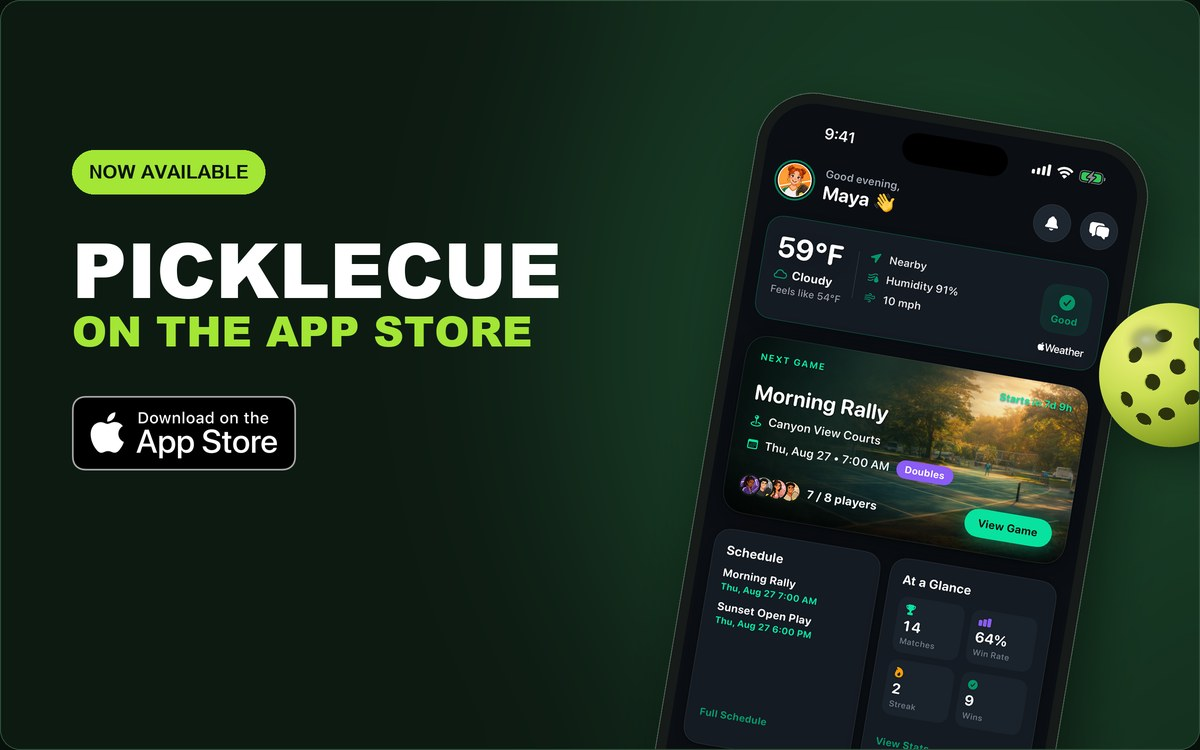
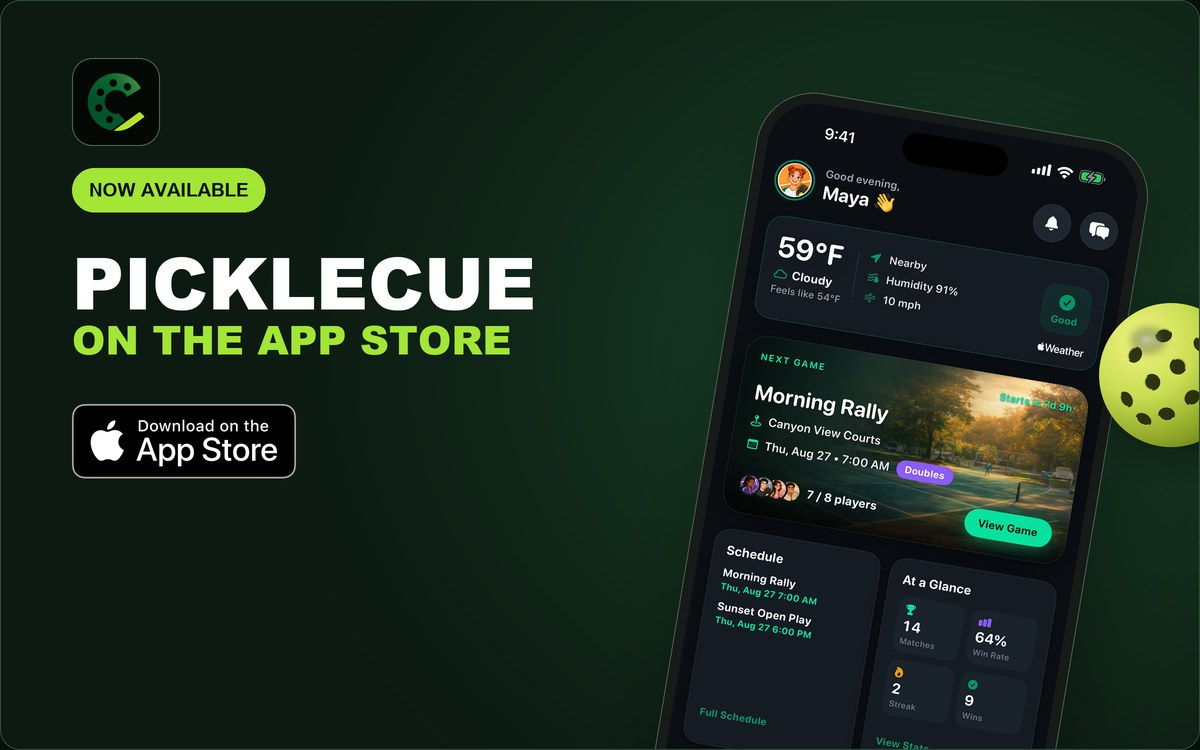
fix(email): iOS Mail was inverting the whole email, plus hero fixes
THREE THINGS THE DEVICE TEST CAUGHT THAT NO PREVIEW DID

1. iOS Mail inverted the email. On a real iPhone the dark design rendered as a
   pale sage background with dark-green buttons and a visible dark box around
   the wordmark. Zoho Mail on desktop rendered it correctly the entire time,
   which is exactly why this needed a device.

   Cause: the <meta name="color-scheme"> tags are not enough on their own.
   Apple Mail reads the CSS property. Added:

       :root{color-scheme:dark;supported-color-schemes:dark;}
       html,body{color-scheme:dark;supported-color-schemes:dark;}

   The wordmark's dark box was a symptom, not a separate bug: the PNG is
   flattened onto #0D1A12, so it only disappears when the surrounding
   background is the colour it expects. Fix the inversion, the box goes.

   Also added [data-ogsb] overrides — Gmail's mobile apps re-colour with their
   own wrapper classes instead of honouring color-scheme.

2. A hard-edged band down the left of the phone. The ambient glow was two
   blurred ellipses; a blur wide enough to look ambient still has a boundary,
   and that boundary landed right where the eye goes. Replaced with a
   per-pixel radial falloff, and the contact shadow is now inset further and
   blurred 40px instead of 26px.

3. Added the C mark as an app-icon tile in the hero, per owner request.

   NOT used: Desktop/PickleCue_AppIcon_ALL_iOS.appiconset/AppIcon-1024.png.
[…]

Changed region(s): [[0.0617, 0.092, 0.4625, 0.4907], [0.0617, 0.5213, 0.2467, 0.644]]

diff --git a/marketing/email/app-store-launch/picklecue-app-store-launch.html b/marketing/email/app-store-launch/picklecue-app-store-launch.html
@@ -12,6 +12,19 @@
 <noscript><xml><o:OfficeDocumentSettings><o:PixelsPerInch>96</o:PixelsPerInch></o:OfficeDocumentSettings></xml></noscript>
 <![endif]-->
 <style type="text/css">
+  /* TELL THE CLIENT THIS EMAIL IS ALREADY DARK.
+     The <meta> tags above are not enough on their own: Apple Mail reads the CSS
+     `color-scheme` property, and without it iOS Mail applied its own dark-mode
+     colour transform to an email that was already dark — inverting it to a pale
+     sage background, turning the lime buttons dark green, and putting a visible
+     dark box around the wordmark (whose PNG is flattened on #0D1A12, so it only
+     disappears when the surrounding background is the colour it expects).
+     Confirmed on a real iPhone from the 2026-08-26 test send; Zoho Mail on
+     desktop rendered correctly the whole time, which is why this needed a
+     device to catch. */
+  :root{color-scheme:dark;supported-color-schemes:dark;}
+  html,body{color-scheme:dark;supported-color-schemes:dark;}
+
   /* Progressive enhancement only. Every critical style is also inlined below,
      because Outlook and several webmail clients strip <style> entirely. */
   body,table,td,a{-webkit-text-size-adjust:100%;-ms-text-size-adjust:100%;}
@@ -32,6 +45,16 @@
     .pc-col-gap{height:14px!important;line-height:14px!important;font-size:14px!important;}
     .pc-btn a{font-size:15px!important;}
   }
+
+  /* Gmail's mobile apps re-colour with their own wrapper classes rather than
+     honouring color-scheme. Pin the surfaces and the type. */
+  u + .body .pc-bg, u + .body .pc-card{background-color:#0D1A12!important;}
+  [data-ogsb] .pc-bg{background-color:#07100A!important;}
+  [data-ogsb] .pc-card{background-color:#0D1A12!important;}
+  [data-ogsb] .pc-white{color:#FFFFFF!important;}
+  [data-ogsb] .pc-soft{color:#D1D5DB!important;}
+  [data-ogsb] .pc-mute{color:#9CA3AF!important;}
+  [data-ogsb] .pc-lime{color:#A3E635!important;}
 
   /* Outlook.com / some webmail force a light theme onto dark email. Keep the
      brand surfaces dark and the type legible if they do. */
@@ -100,7 +123,7 @@
     <tr>
       <td align="center" class="pc-pad" style="padding:0 20px 26px 20px;background-color:#0D1A12;">
         <a href="https://apps.apple.com/us/app/picklecue-pickleball/id6757326631" target="_blank" style="text-decoration:none;">
-          <img src="https://www.picklecue.com/images/email/launch/app-store-launch-hero.jpg"
+          <img src="https://www.picklecue.com/images/email/launch/app-store-launch-hero.jpg?v=2"
                width="560" height="350" class="pc-hero"
                alt="PickleCue is now available on the App Store"
                style="display:block;width:560px;max-width:100%;height:auto;border:0;outline:none;border-radius:14px;" />

diff --git a/marketing/email/app-store-launch/build-hero.py b/marketing/email/app-store-launch/build-hero.py
@@ -11,6 +11,7 @@ rigidly - never stretched on one axis.
 from PIL import Image, ImageDraw, ImageFont, ImageFilter
 from pathlib import Path
 import math, sys
+import numpy as np
 
 REPO = Path(__file__).resolve().parents[3]
 IOS  = Path("/Volumes/Mini Drive 2/Xcode Projects/PickleCue")
@@ -19,6 +20,7 @@ OUT  = Path(__file__).resolve().parent
 HOME  = IOS / "qa/store-screenshots/build-213-deck-v4/raw/s10-home-dashboard.png"
 BADGE = Path("/tmp/app-store-badge.png")
 BALL  = IOS / "PickleCue/Assets.xcassets/picklecue_loader_ball.imageset/picklecue_loader_ball@3x.png"
+MARK  = Path.home() / "Desktop/Logo Transparent.png"   # the official C mark
 
 PAPER = (13, 26, 18)      # #0D1A12
 LIME  = (163, 230, 53)    # #A3E635
@@ -30,19 +32,25 @@ AB = "/System/Library/Fonts/Supplemental/Arial Black.ttf"
 BD = "/System/Library/Fonts/Supplemental/Arial Bold.ttf"
 f = lambda p, s: ImageFont.truetype(p, s * S)
 
-for p in (HOME, BADGE, BALL):
+for p in (HOME, BADGE, BALL, MARK):
     if not p.exists():
         sys.exit(f"missing asset: {p}")
 
 card = Image.new("RGB", (W, H), PAPER)
 
 # ---- ambient glow behind the device -------------------------------------
-glow = Image.new("L", (W, H), 0)
-gd = ImageDraw.Draw(glow)
-gd.ellipse([int(W*0.44), int(-H*0.30), int(W*1.16), int(H*1.16)], fill=120)
-gd.ellipse([int(W*0.56), int(H*0.02), int(W*1.02), int(H*0.92)], fill=190)
-glow = glow.filter(ImageFilter.GaussianBlur(150 * S // 2))
-card = Image.composite(Image.new("RGB", (W, H), (28, 74, 45)), card, glow)
+# Computed per-pixel rather than drawn as blurred ellipses. The ellipse version
+# left a visible straight-edged band down the left of the phone: a blur radius
+# large enough to look ambient still has a boundary, and two stacked ellipses
+# put that boundary right where the eye goes.
+yy, xx = np.mgrid[0:H, 0:W].astype(np.float32)
+cx, cy = W * 0.78, H * 0.46
+r = np.sqrt(((xx - cx) / (W * 0.62)) ** 2 + ((yy - cy) / (H * 0.86)) ** 2)
+falloff = np.clip(1.0 - r, 0.0, 1.0) ** 1.7          # smooth to zero at the edge
+base = np.array(PAPER, dtype=np.float32)
+lit  = np.array((30, 80, 48), dtype=np.float32)
+card = Image.fromarray(
+    (base + (lit - base) * falloff[..., None]).clip(0, 255).astype(np.uint8), "RGB")
 
 # ---- the device: real screenshot, rigid scale + rotate -------------------
 shot = Image.open(HOME).convert("RGB")
@@ -62,11 +70,13 @@ dev.paste(phone, (BEZ, BEZ), mask)
 ANGLE = -9.5                                   # rigid rotation, aspect preserved
 dev_r = dev.rotate(ANGLE, expand=True, resample=Image.BICUBIC)
 
+# Soft contact shadow. Kept well inside the device silhouette and blurred wide,
+# so it reads as depth rather than as a second rectangle beside the phone.
 shadow = Image.new("L", (W, H), 0)
-sm = dev_r.split()[3].point(lambda v: 150 if v > 8 else 0)
-shadow.paste(sm, (int(628*S) + int(10*S), int(84*S) + int(22*S)))
-shadow = shadow.filter(ImageFilter.GaussianBlur(26 * S))
-card = Image.composite(Image.new("RGB", (W, H), (4, 9, 6)), card, shadow)
+shadow.paste(dev_r.split()[3].point(lambda v: 130 if v > 8 else 0),
+             (int(628*S) + int(14*S), int(84*S) + int(26*S)))
+shadow = shadow.filter(ImageFilter.GaussianBlur(40 * S))
+card = Image.composite(Image.new("RGB", (W, H), (5, 12, 8)), card, shadow)
 card.paste(dev_r, (int(628*S), int(84*S)), dev_r)
 
 # ---- pickleball ---------------------------------------------------------
@@ -84,22 +94,34 @@ card.paste(ball, (bx, by), ball)
 d = ImageDraw.Draw(card)
 X = int(72 * S)
 
+# The C mark, presented as the app icon people will look for in the App Store.
+mark = Image.open(MARK).convert("RGBA")
+TILE = int(88 * S)
+tile = Image.new("RGBA", (TILE, TILE), (0, 0, 0, 0))
+# Near-black tile, not dark green: the mark's own "C" is a deep green, and it
+# only separates against something close to the black it was drawn on.
+ImageDraw.Draw(tile).rounded_rectangle([0, 0, TILE-1, TILE-1], int(20*S), fill=(4, 8, 5, 255),
+                                       outline=(74, 112, 76, 255), width=max(1, S))
+gl = mark.resize((int(TILE*0.80), int(TILE*0.80)), Image.LANCZOS)
+tile.paste(gl, ((TILE - gl.width)//2, (TILE - gl.height)//2), gl)
+card.paste(tile, (X, int(58*S)), tile)
+
 # "NOW AVAILABLE" pill
 pf = f(BD, 19)
 pt = "NOW AVAILABLE"
 tw = d.textlength(pt, font=pf)
-px0, py0 = X, int(150 * S)
+px0, py0 = X, int(168 * S)
 pw, ph = int(tw + 34*S), int(44 * S)
 d.rounded_rectangle([px0, py0, px0+pw, py0+ph], ph//2, fill=LIME)
 d.text((px0 + pw/2, py0 + ph/2), pt, font=pf, fill=(10, 20, 13), anchor="mm")
 
-d.text((X, int(214*S)), "PICKLECUE",        font=f(AB, 76), fill=WHITE)
-d.text((X, int(300*S)), "ON THE APP STORE", font=f(AB, 42), fill=LIME)
+d.text((X, int(230*S)), "PICKLECUE",        font=f(AB, 72), fill=WHITE)
+d.text((X, int(310*S)), "ON THE APP STORE", font=f(AB, 40), fill=LIME)
 
 badge = Image.open(BADGE).convert("RGBA")
 BW = int(224 * S)
 badge = badge.resize((BW, int(badge.height * BW / badge.width)), Image.LANCZOS)
-card.paste(badge, (X, int(396*S)), badge)
+card.paste(badge, (X, int(404*S)), badge)
 
 # ---- rounded card edge --------------------------------------------------
 out = Image.new("RGB", (W, H), (7, 16, 10))
